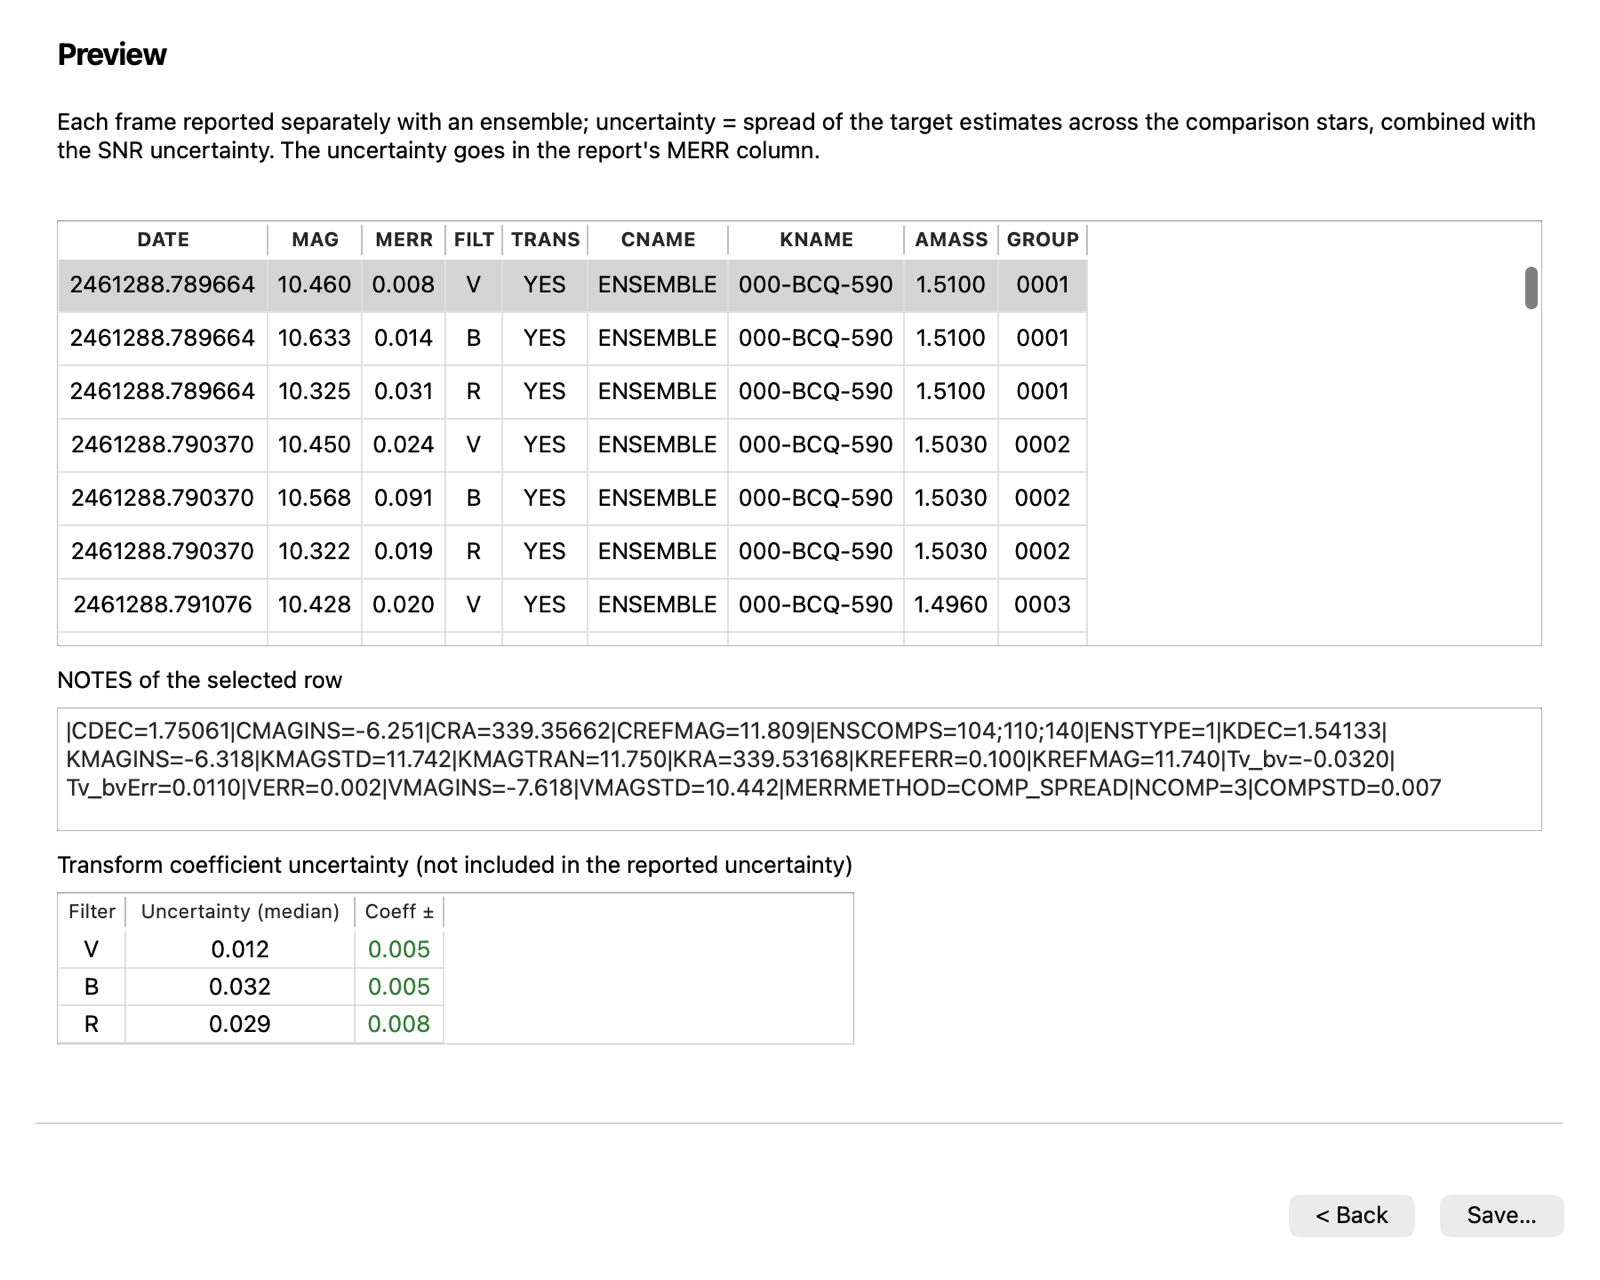
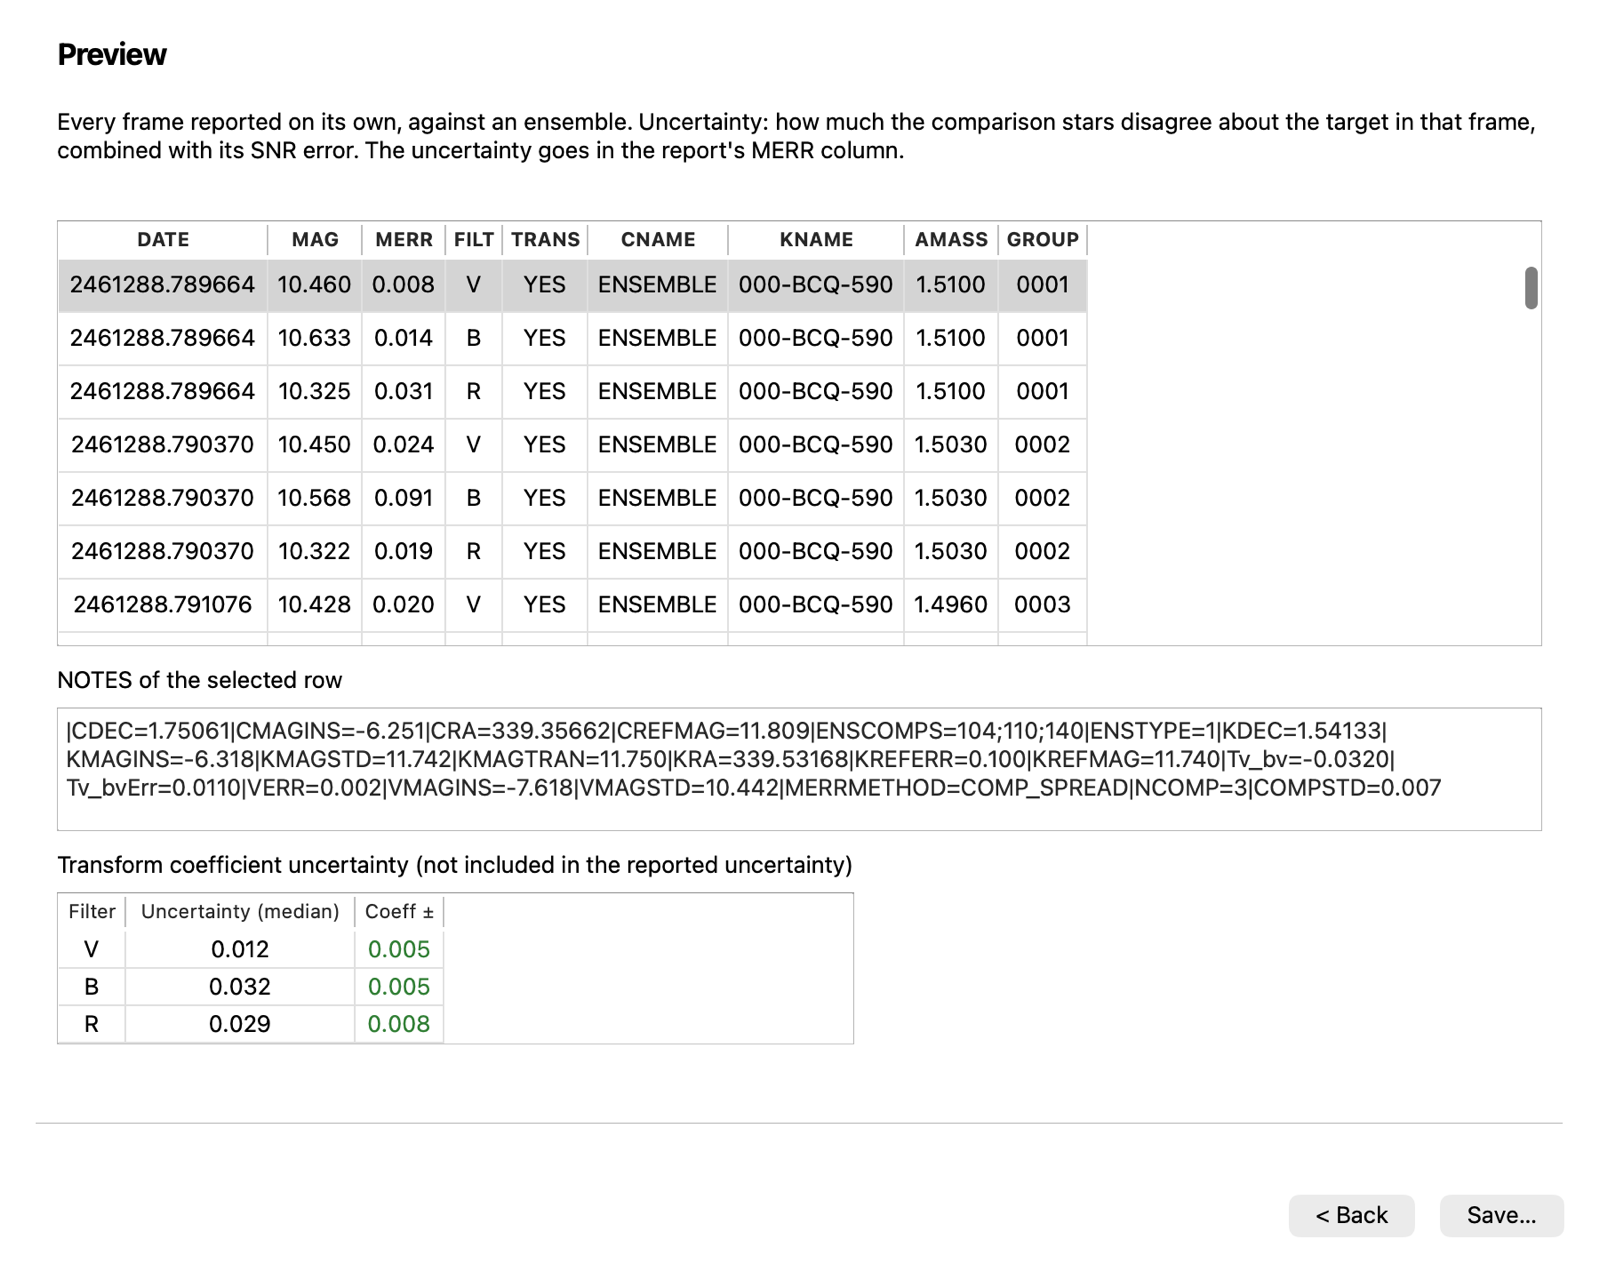
Wizard: plain-language explanation of each frame's uncertainty
The light-curve page is now 'The uncertainty for each frame': what the comparison
stars' disagreement means, how it's combined with the SNR error, a table with plain
column names, and a note that there's nothing to choose. The method descriptions
(preview and the saved file's header comment) say the same in plain words.

Changed region(s): [[0.0312, 0.0938, 0.9688, 0.125]]

diff --git a/src/photometry_workbench/ui/submission_wizard.py b/src/photometry_workbench/ui/submission_wizard.py
@@ -257,25 +257,42 @@ class _LightCurvePage(QWizardPage):
     def __init__(self, wizard: "SubmissionWizard"):
         super().__init__()
         self._wizard = wizard
-        self.setTitle("Each frame reported on its own")
+        self.setTitle("The uncertainty for each frame")
         layout = QVBoxLayout(self)
         self.text = _wrapped("")
         layout.addWidget(self.text)
-        self.spread_caption = _wrapped(
-            "Each frame's uncertainty combines two parts: how much the comparison stars disagree "
-            "(their spread) and the target's own SNR error. Medians over the frames:", gray=True)
+        self.spread_caption = _wrapped("Typical values in this session (median over the frames):", gray=True)
         layout.addWidget(self.spread_caption)
-        self.spread_table = _read_only_table(["Filter", "Comps", "Spread across comps", "SNR error", "Reported (combined)"])
+        self.spread_table = _read_only_table(
+            ["Filter", "Comparison stars", "Spread between comps", "SNR error", "Reported uncertainty"]
+        )
         layout.addWidget(self.spread_table)
         self.problem = _wrapped("")
         self.problem.setStyleSheet(f"color: {coloring.FLAG.name()};")
         layout.addWidget(self.problem)
+        layout.addWidget(_wrapped("Nothing to choose here. Next shows the rows that will be saved.", gray=True))
         layout.addStretch()
 
     def initializePage(self):
         method = self._wizard.method()
-        self.text.setText(method.description)
         ensemble = method == ErrorMethod.COMP_SPREAD
+        transformed = self._wizard.source_report().is_transformed
+        if ensemble:
+            n = len(self._wizard.session.comp_star_names())
+            self.text.setText(
+                f"Each of the {n} comparison stars gives its own estimate of the target's magnitude in "
+                "every frame. How much those estimates disagree measures the uncertainty directly: a "
+                "frame where the comparison stars agree closely gets a small uncertainty, and one where "
+                "they disagree gets a larger one.\n\n"
+                "That spread is combined with the target's SNR error (the two added in quadrature) to "
+                "give the uncertainty reported for the frame."
+            )
+        else:
+            self.text.setText(
+                "With one comparison star there's one estimate of the target per frame, so each frame's "
+                "uncertainty is its SNR-based error from VPhot"
+                + (", carried through the transform." if transformed else ".")
+            )
         self.spread_table.setVisible(ensemble)
         self.spread_caption.setVisible(ensemble)
         self.problem.clear()

diff --git a/src/photometry_workbench/submission/builder.py b/src/photometry_workbench/submission/builder.py
@@ -47,13 +47,14 @@ class ErrorMethod(str, Enum):
     @property
     def description(self) -> str:
         return {
-            ErrorMethod.STD_TARGET: "Frames combined per filter; uncertainty = standard deviation of the target's frames.",
-            ErrorMethod.STD_CHECK: "Frames combined per filter; uncertainty = standard deviation of the check star's frames "
-            "(the target may vary during the observation).",
-            ErrorMethod.SNR: "Each frame reported separately with one comparison star; uncertainty = the SNR-based "
-            "per-frame uncertainty (TA's propagated value when transformed).",
-            ErrorMethod.COMP_SPREAD: "Each frame reported separately with an ensemble; uncertainty = spread of the "
-            "target estimates across the comparison stars, combined with the SNR uncertainty.",
+            ErrorMethod.STD_TARGET: "One point per filter, the average of its frames. Uncertainty: the standard "
+            "deviation of the target across those frames.",
+            ErrorMethod.STD_CHECK: "One point per filter, the average of its frames. Uncertainty: the standard "
+            "deviation of the check star across those frames, since the target may change during the observation.",
+            ErrorMethod.SNR: "Every frame reported on its own, against one comparison star. Uncertainty: each "
+            "frame's SNR-based error (carried through the transform when transformed).",
+            ErrorMethod.COMP_SPREAD: "Every frame reported on its own, against an ensemble. Uncertainty: how much "
+            "the comparison stars disagree about the target in that frame, combined with its SNR error.",
         }[self]
 
 
